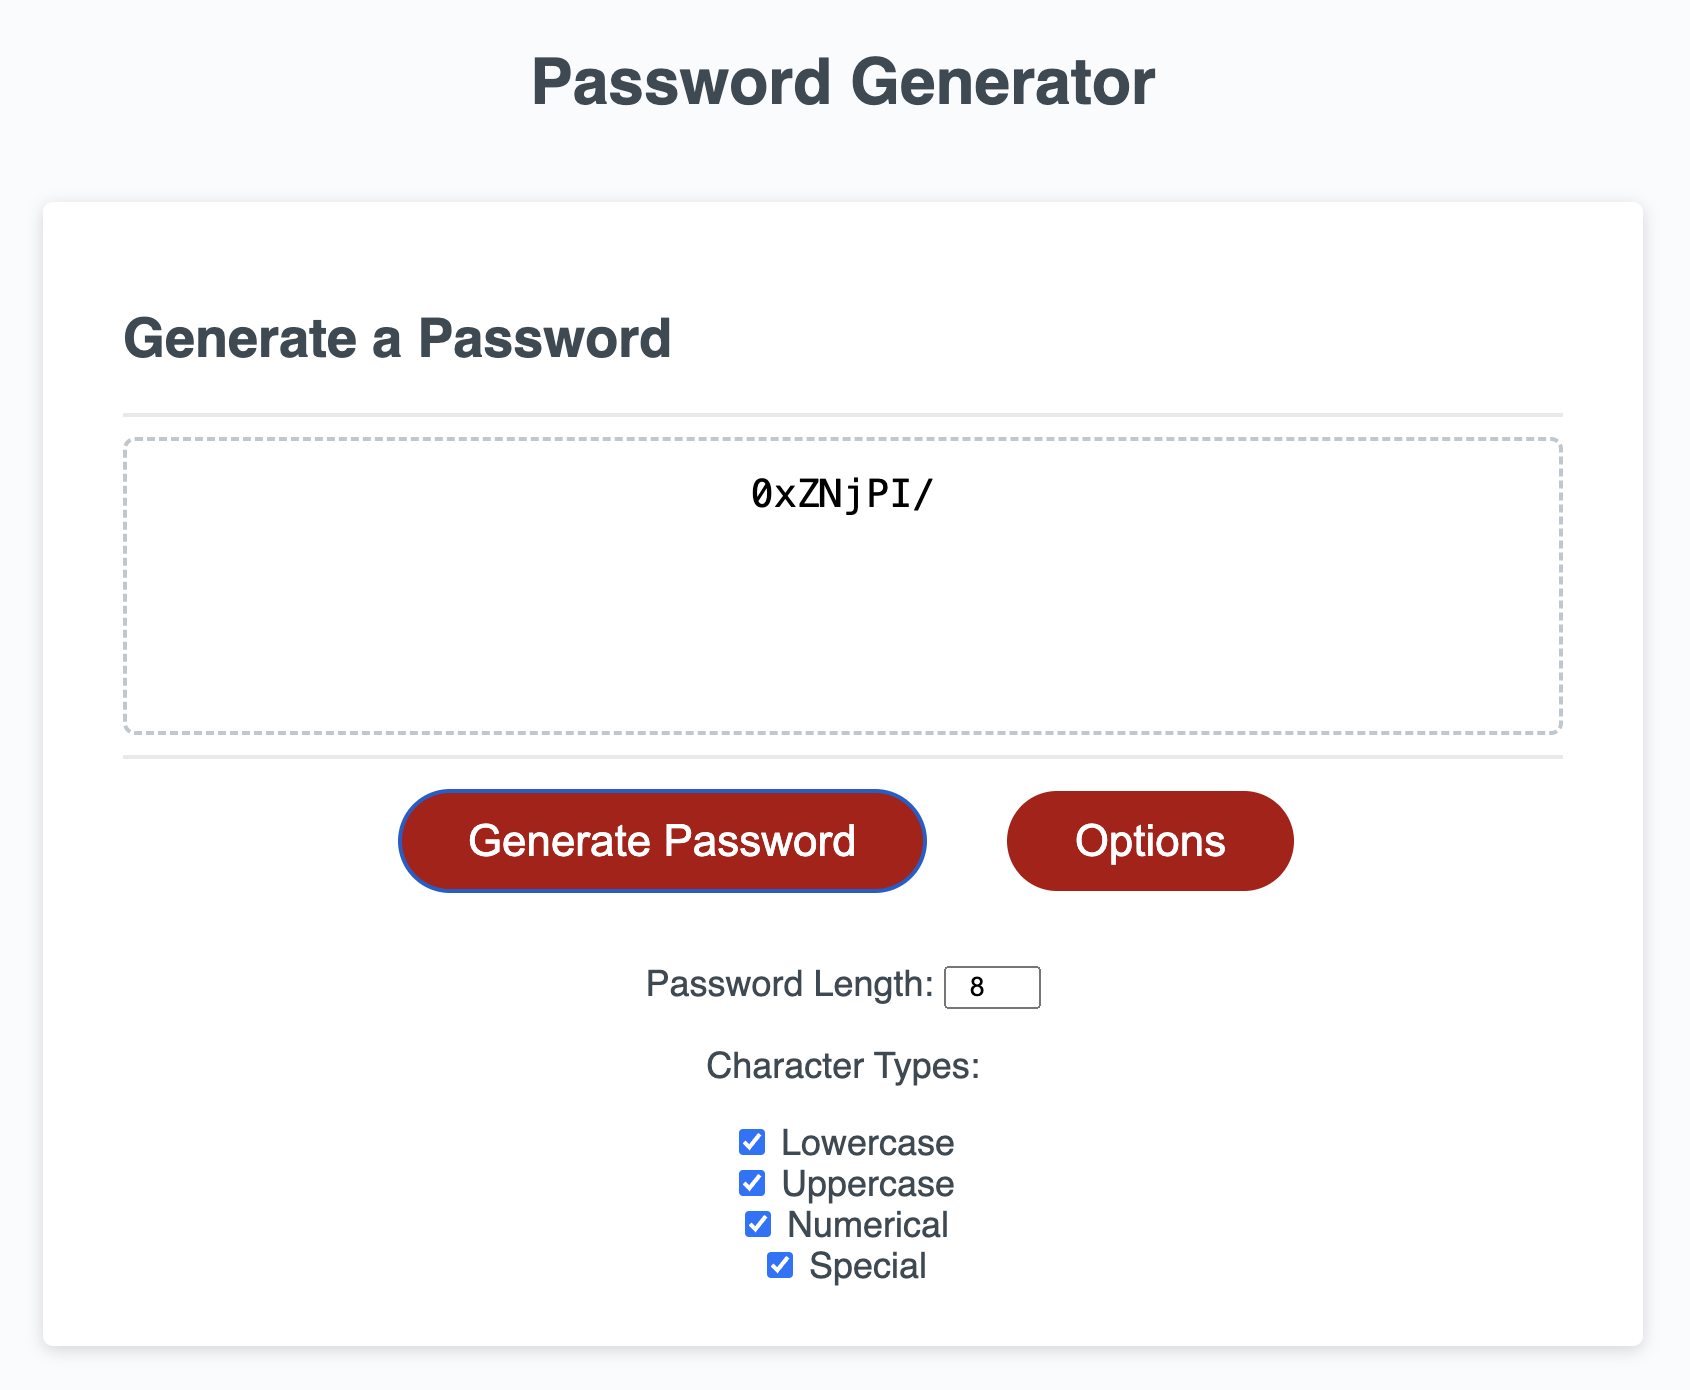
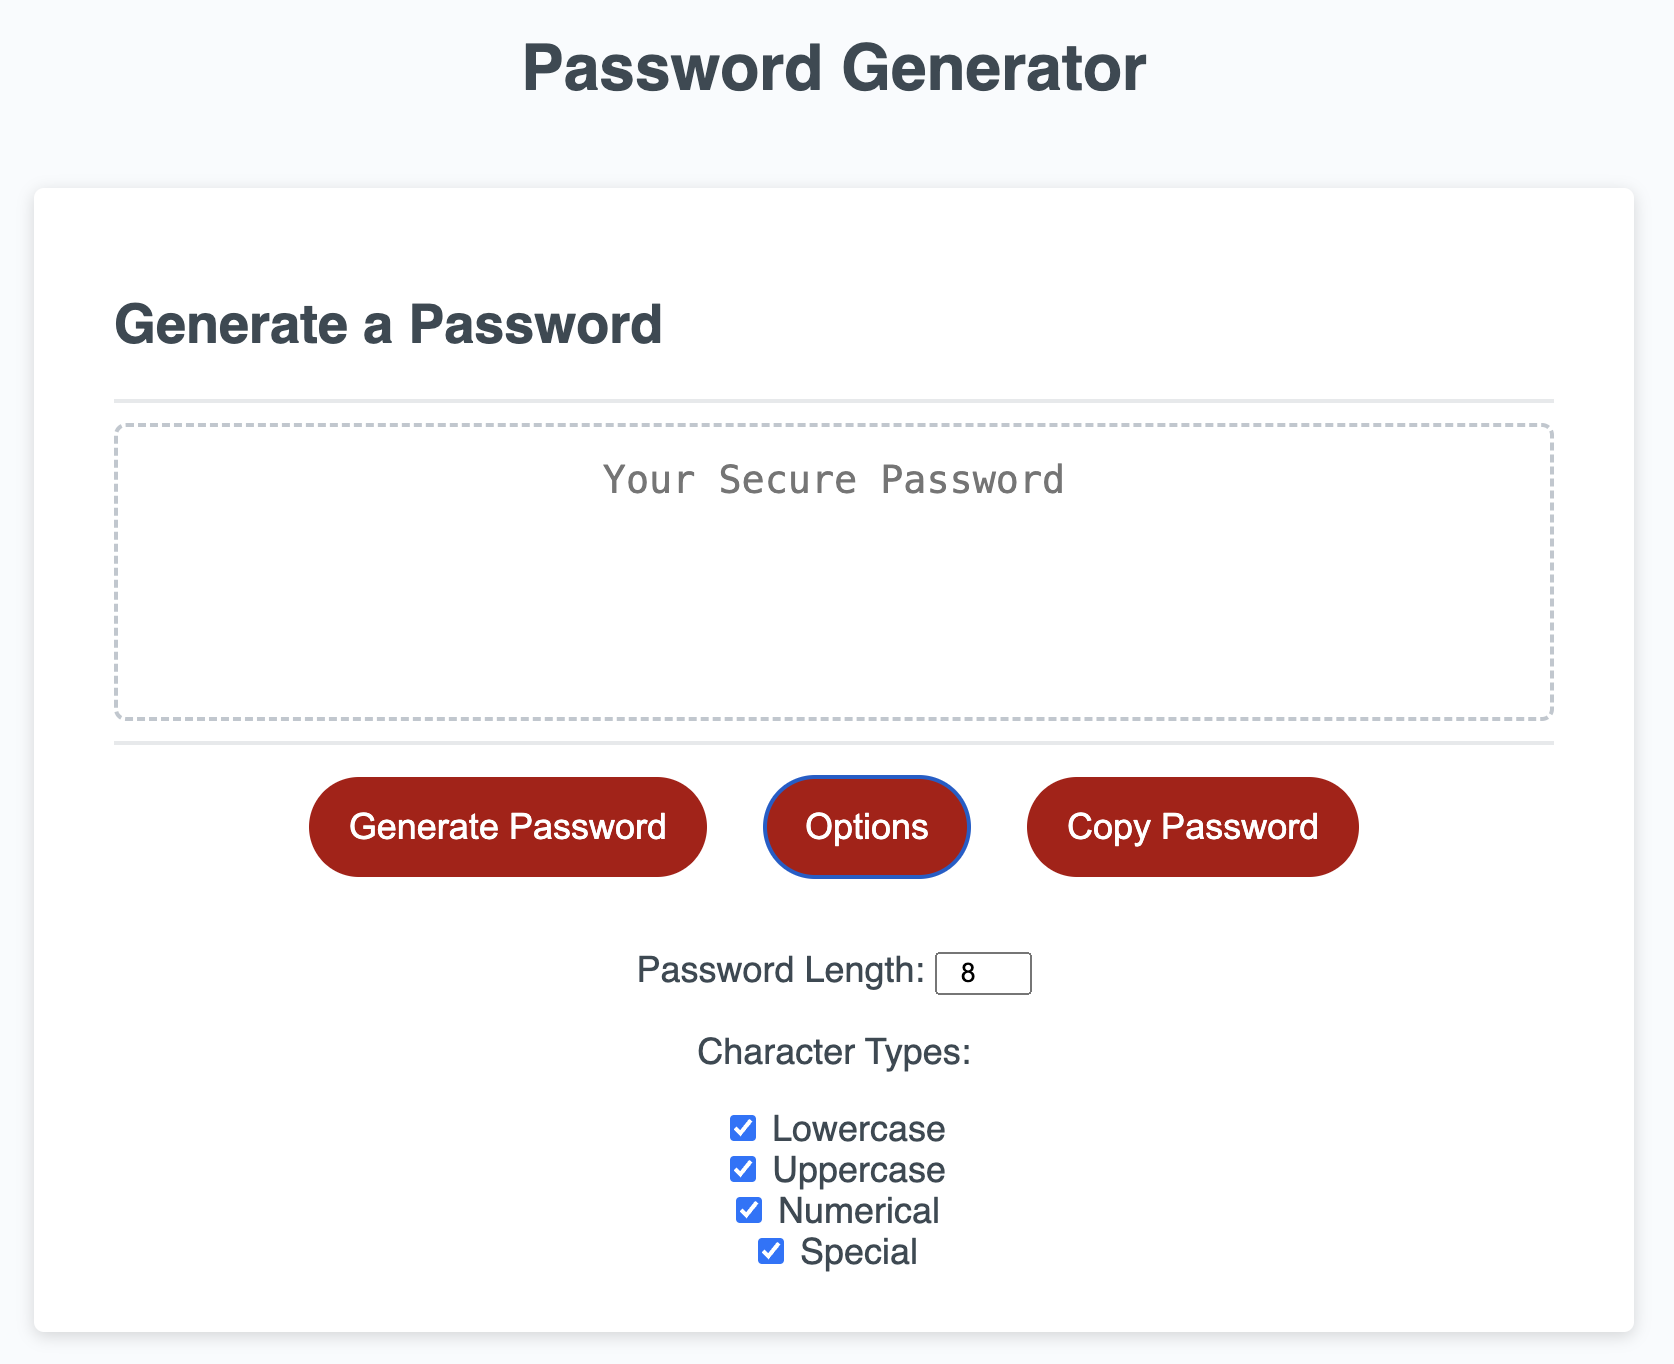
Updated README to include copy button.

diff --git a/README.md b/README.md
@@ -12,7 +12,7 @@ N/A
 ## Usage
 
 Here is a link to the website: https://jessedenier.github.io/Password-Generator/
-This webpage can be opened and interacted with using either button, and the expandable form located below the buttons and accessable with the "Options" button.
+This webpage can be opened and interacted with using buttons, and the expandable form located below the buttons. The Generate button will create a random string of characters based on the users answers to the form. The options button will show and hide the form. Lastly the copy button will allow the user an easy way to copy the password to their clipboard for use elsewhere.
 
 ## Credits
 
